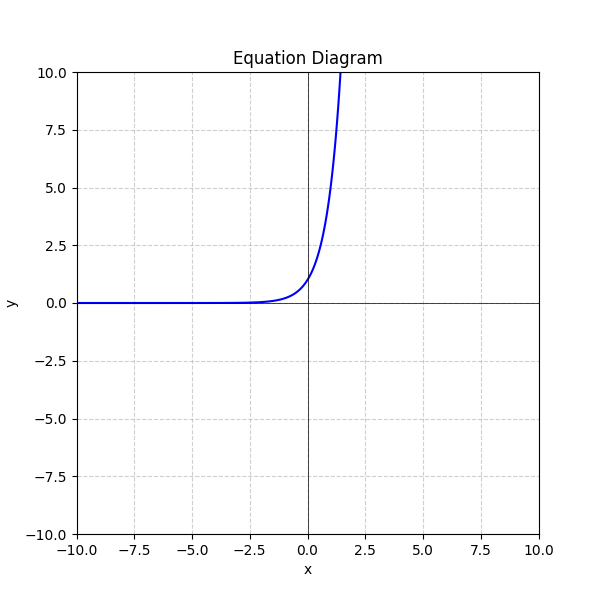
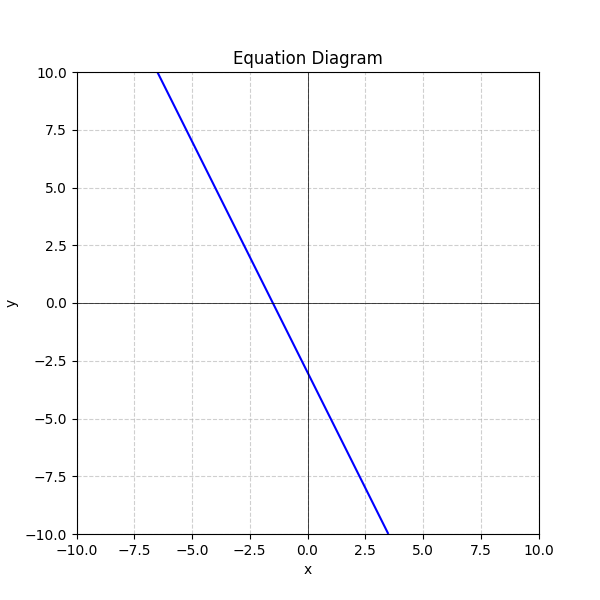
能畫出題目的圖

diff --git a/core/routes.py b/core/routes.py
@@ -7,8 +7,9 @@ from flask import session # 導入 session
 import importlib, os
 from core.utils import get_skill_info
 from models import db, Progress, SkillInfo, SkillCurriculum, SkillPrerequisites # 導入 SkillPrerequisites
-from sqlalchemy.orm import aliased
 import traceback
+import re
+from sqlalchemy.orm import aliased
 import pandas as pd
 import google.generativeai as genai
 import numpy as np
@@ -400,6 +401,14 @@ def draw_diagram():
             line = line.strip()
             if not line:
                 continue
+
+            # Sanitize equation string for safer evaluation
+            # 1. Normalize operators like '+ -' to '-'
+            line = line.replace('+ -', '-')
+            # 2. Insert '*' for implicit multiplication, e.g., '2x' -> '2*x' or '-3y' -> '-3*y'
+            #    This regex finds a number (potentially with a sign) followed immediately by 'x' or 'y'
+            #    and inserts a '*' between them.
+            line = re.sub(r'(-?\d+(?:\.\d+)?)([xy])', r'\1*\2', line)
             
             try:
                 # This is a simplified and somewhat unsafe way to plot.
